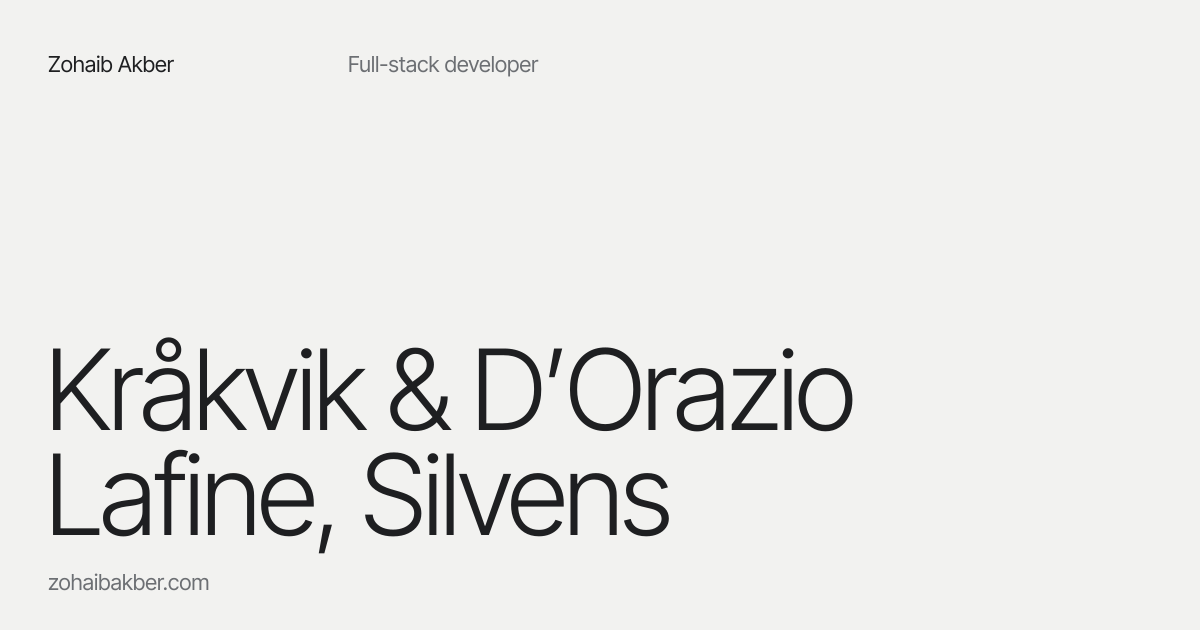
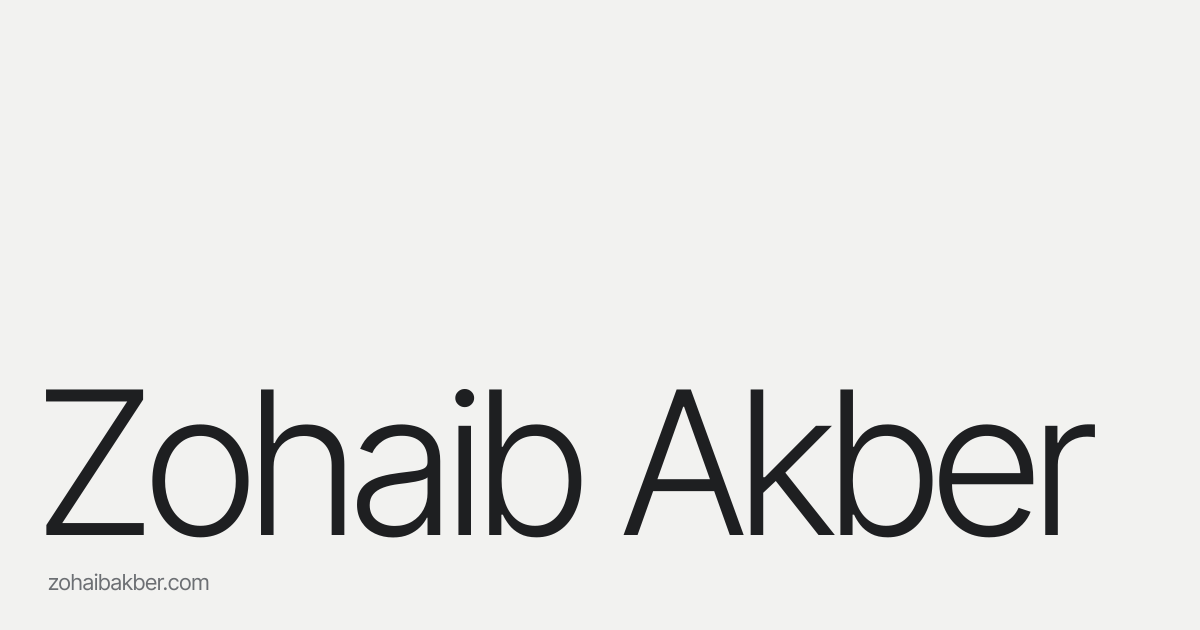
Drop the role line and project names from the OG image
The page, tab title and share image now carry only the name.

Changed region(s): [[0.0308, 0.5127, 0.925, 0.8746], [0.2775, 0.0905, 0.4625, 0.1206], [0.0308, 0.0905, 0.1542, 0.1206]]

diff --git a/src/data/portfolio.ts b/src/data/portfolio.ts
@@ -2,7 +2,6 @@ export const siteUrl = "https://zohaibakber.com";
 
 export const portfolio = {
   name: "Zohaib Akber",
-  title: "Full-stack developer",
   location: "Lahore, Pakistan",
   timeZone: "Asia/Karachi",
   email: "mail@zohaibakber.com",
